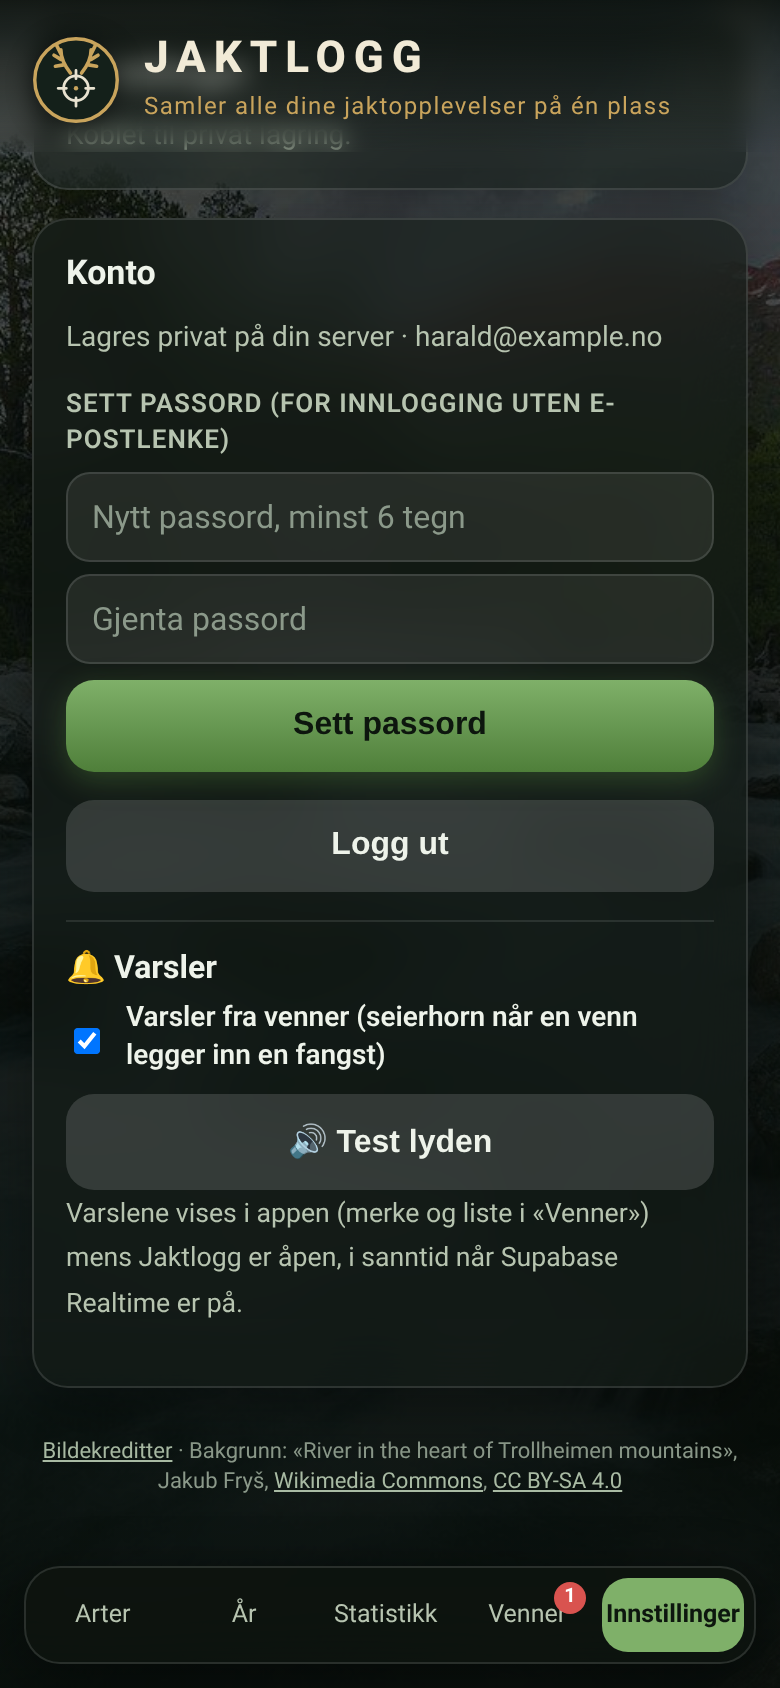
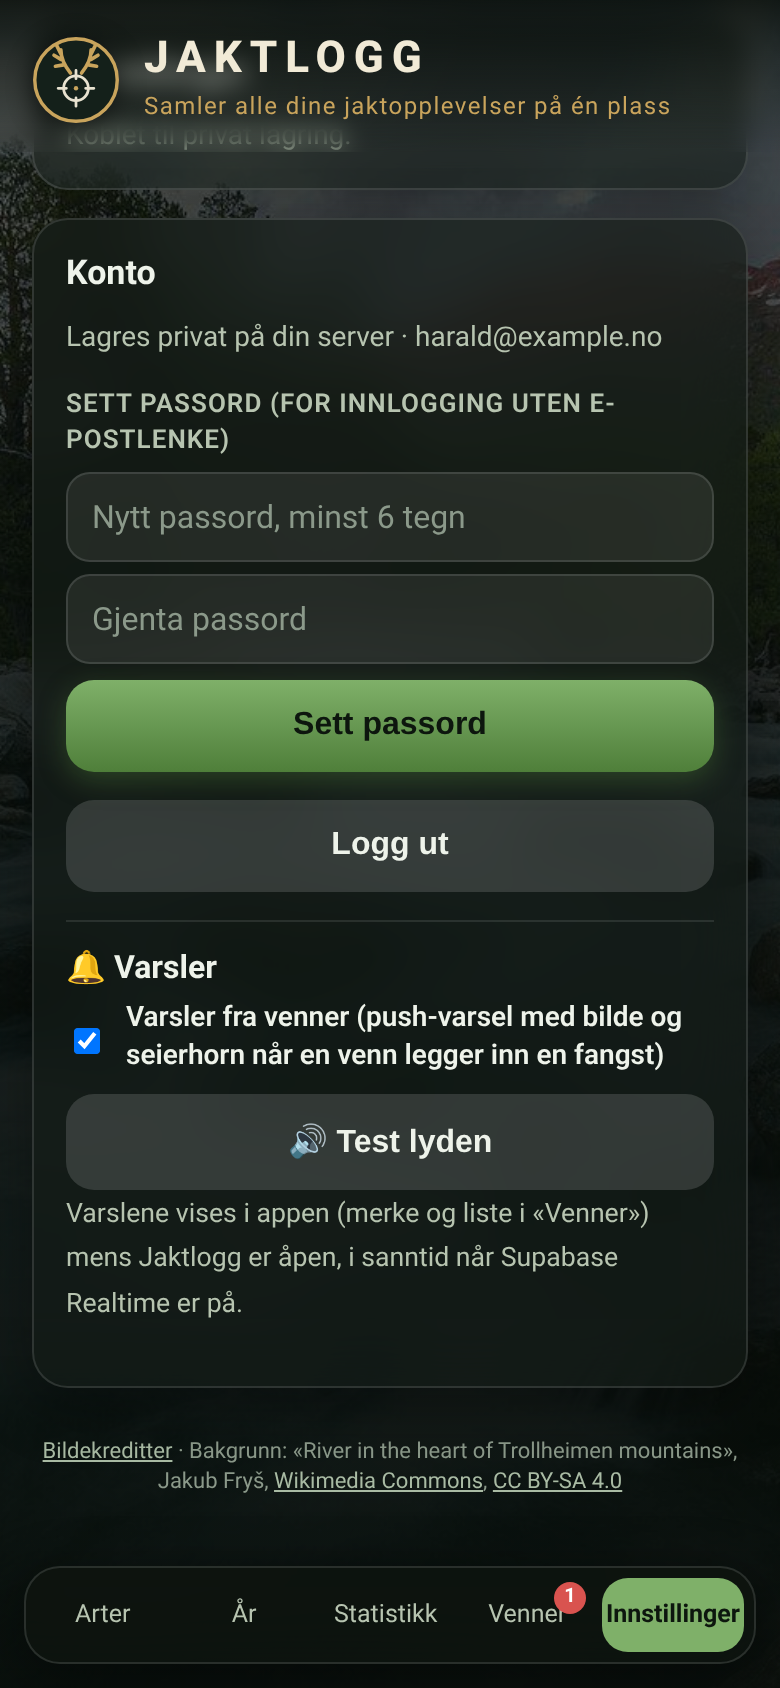
Web push for venner: SW push handler, push_subscriptions + push_recipients, notify-venner edge function (VAPID), README setup

Changed region(s): [[0.1538, 0.5853, 0.8923, 0.6469]]

diff --git a/index.html b/index.html
@@ -340,6 +340,17 @@ async function renderShared(){document.querySelector('nav')&&(document.querySele
 
 // ---- Jaktlag ----
 const myMail=()=>(sbUser&&sbUser.email||'').toLowerCase();
+// Web push (VAPID). Lim inn den OFFENTLIGE VAPID-nøkkelen her (se README → Push-varsler). Privatnøkkelen ligger kun i Supabase secrets.
+const VAPID_PUBLIC='';
+const vapidKey=s=>{const p='='.repeat((4-s.length%4)%4),r=atob((s+p).replace(/-/g,'+').replace(/_/g,'/'));return Uint8Array.from(r,c=>c.charCodeAt(0))};
+async function setPush(on){try{if(!('serviceWorker'in navigator)||!('PushManager'in window))return'Push støttes ikke i denne nettleseren (på iPhone: legg appen til på Hjem-skjermen først).';
+ if(!sb||!sbUser)return'Logg inn for push-varsler.';const reg=await navigator.serviceWorker.ready;let sub=await reg.pushManager.getSubscription();
+ if(!on){if(sub){await sb.from('push_subscriptions').delete().eq('endpoint',sub.endpoint);await sub.unsubscribe()}return'Push-varsler er av.'}
+ if(!VAPID_PUBLIC)return'Push er ikke konfigurert ennå (VAPID-nøkkel mangler). Varsler vises når appen er åpen.';
+ if(await Notification.requestPermission()!=='granted')return'Varsler er blokkert i nettleseren.';
+ if(!sub)sub=await reg.pushManager.subscribe({userVisibleOnly:true,applicationServerKey:vapidKey(VAPID_PUBLIC)});const j=sub.toJSON();
+ const{error}=await sb.from('push_subscriptions').upsert({endpoint:j.endpoint,p256dh:j.keys.p256dh,auth:j.keys.auth},{onConflict:'endpoint'});return error?teamErr(error):'Push-varsler er på for denne enheten.'}catch(e){return'Kunne ikke slå på push: '+(e.message||e)}}
+if('serviceWorker'in navigator)navigator.serviceWorker.addEventListener('message',e=>{if(e.data?.type==='venn-fangst'){if(localStorage.getItem('jaktlogg.varsler')!=='0')shotSound();checkFeed()}else if(e.data?.type==='open-venner')setTab('lag')});
 async function myTeams(){const{data,error}=await sb.from('teams').select('id,name,owner,created_at').order('created_at');if(error)throw error;return data||[]}
 async function myTeams(){const{data,error}=await sb.from('teams').select('id,name,owner,created_at').order('created_at');if(error)throw error;return data||[]}
 const teamErr=e=>/teams|team_|relation|schema|function/i.test(e&&e.message||'')?'Venner er ikke satt opp ennå: kjør supabase/schema.sql på nytt.':errNo(e);
@@ -387,7 +398,7 @@ async function renderSettings(){const n=(await LocalStore.list()).length;
  <label>Anon / publishable key<input id="sk" type="password" autocomplete="off" placeholder="anon-nøkkel"></label>
  <div class="maprow"><button class="btn" id="ss" style="flex:1">Lagre</button>${cfg()?'<button class="btn sec" id="sx">Koble fra</button>':''}</div><p id="smsg" style="font-size:14px;color:var(--m)"></p>`:`<p style="color:var(--m);font-size:14px;margin:0">${cfg()?'Koblet til privat lagring.':'Fangster lagres kun på denne enheten.'}</p>`}</div>
  <div class="panel" style="margin-top:14px"><h2 style="margin-top:0">Konto</h2><p style="color:var(--m);font-size:14px;margin:0 0 10px">${modeText()}</p>
- ${!cfg()?'':sbUser?`<form id="spf" style="margin-bottom:10px"><label>Sett passord (for innlogging uten e-postlenke)<input id="sp1" type="password" minlength="6" required autocomplete="new-password" placeholder="Nytt passord, minst 6 tegn"></label><input id="sp2" type="password" minlength="6" required autocomplete="new-password" placeholder="Gjenta passord" style="margin-top:6px"><button class="btn" style="margin-top:8px">Sett passord</button><p id="spm" style="font-size:14px;color:var(--m)"></p></form><button class="btn sec" id="lo">Logg ut</button><div class="sharebox"><h3 style="margin:0 0 4px;font-size:16px">🔔 Varsler</h3><label class="kopt" style="display:flex;gap:10px;align-items:center;text-transform:none;letter-spacing:0;font-size:14px;color:inherit"><input type="checkbox" id="nvon" style="position:static;opacity:1;width:auto"> Varsler fra venner (seierhorn når en venn legger inn en fangst)</label><button class="btn sec" id="ntest" style="margin-top:8px">🔊 Test lyden</button><small style="color:var(--m)">Varslene vises i appen (merke og liste i «Venner») mens Jaktlogg er åpen, i sanntid når Supabase Realtime er på.</small></div>${n?`<button class="btn" id="mig" style="margin-top:8px">Flytt lokale fangster til server (${n})</button>`:''}<p id="mmsg" style="font-size:14px;color:var(--m)"></p>`:'<button class="btn" id="li">Logg inn</button>'}</div>`;
+ ${!cfg()?'':sbUser?`<form id="spf" style="margin-bottom:10px"><label>Sett passord (for innlogging uten e-postlenke)<input id="sp1" type="password" minlength="6" required autocomplete="new-password" placeholder="Nytt passord, minst 6 tegn"></label><input id="sp2" type="password" minlength="6" required autocomplete="new-password" placeholder="Gjenta passord" style="margin-top:6px"><button class="btn" style="margin-top:8px">Sett passord</button><p id="spm" style="font-size:14px;color:var(--m)"></p></form><button class="btn sec" id="lo">Logg ut</button><div class="sharebox"><h3 style="margin:0 0 4px;font-size:16px">🔔 Varsler</h3><label class="kopt" style="display:flex;gap:10px;align-items:center;text-transform:none;letter-spacing:0;font-size:14px;color:inherit"><input type="checkbox" id="nvon" style="position:static;opacity:1;width:auto"> Varsler fra venner (push-varsel med bilde og seierhorn når en venn legger inn en fangst)</label><small id="npush" style="display:block;color:var(--m)"></small><button class="btn sec" id="ntest" style="margin-top:8px">🔊 Test lyden</button><small style="color:var(--m)">Varslene vises i appen (merke og liste i «Venner») mens Jaktlogg er åpen, i sanntid når Supabase Realtime er på.</small></div>${n?`<button class="btn" id="mig" style="margin-top:8px">Flytt lokale fangster til server (${n})</button>`:''}<p id="mmsg" style="font-size:14px;color:var(--m)"></p>`:'<button class="btn" id="li">Logg inn</button>'}</div>`;
  if($('ss'))$('ss').onclick=async()=>{const url=$('su').value.trim().replace(/\/+$/,'').replace(/\/(rest|auth|storage)\/v1.*$/i,'').replace(/\/+$/,''),key=$('sk').value.trim();
   if(!/^https:\/\/.+/.test(url)||!key){$('smsg').textContent='Fyll inn både URL og nøkkel.';return}
   if(keyRole(key)==='service_role'){$('smsg').textContent='Dette er en service_role/secret-nøkkel. Den skal aldri brukes i appen. Bruk anon-nøkkelen.';return}
@@ -395,7 +406,7 @@ async function renderSettings(){const n=(await LocalStore.list()).length;
  if($('sx'))$('sx').onclick=async()=>{if(sb)await sb.auth.signOut().catch(()=>{});localStorage.removeItem(CFG_KEY);await initBackend();renderSettings();$('hsub').textContent=modeText()};
  if($('li'))$('li').onclick=()=>renderLogin();
  if($('spf'))$('spf').onsubmit=async ev=>{ev.preventDefault();const a=$('sp1').value;if(a.length<6)return $('spm').textContent='Passordet må ha minst 6 tegn.';if(a!==$('sp2').value)return $('spm').textContent='Passordene er ikke like.';$('spm').textContent='Lagrer …';const{error}=await sb.auth.updateUser({password:a});$('spm').textContent=error?errNo(error):'Passordet er satt. Du kan nå logge inn med e-post og passord.';if(!error)$('spf').reset()};
- if(sbUser){if($('nvon')){$('nvon').checked=notifOn();$('ntest').onclick=shotSound;$('nvon').onchange=()=>{localStorage.setItem('jaktlogg.varsler',$('nvon').checked?'1':'0');checkFeed()}}}
+ if(sbUser){if($('nvon')){$('nvon').checked=notifOn();$('ntest').onclick=shotSound;$('nvon').onchange=async()=>{const on=$('nvon').checked;localStorage.setItem('jaktlogg.varsler',on?'1':'0');checkFeed();const m=await setPush(on);if($('npush'))$('npush').textContent=m}}}
  if($('lo'))$('lo').onclick=async()=>{await sb.auth.signOut();sbUser=null;Store=LocalStore;renderSettings();$('hsub').textContent=modeText()};
  if($('mig'))$('mig').onclick=async()=>{if(!confirm(`Flytte ${n} lokale fangster til serveren? De slettes fra enheten når de er lastet opp.`))return;
   const list=await LocalStore.list();let ok=0;for(const e of list){try{$('mmsg').textContent=`Laster opp ${ok+1} av ${list.length} …`;await SupabaseStore.add(e);await LocalStore.delete(e.id);ok++}catch(err){$('mmsg').textContent=`Stoppet etter ${ok}: ${err.message}`;return}}
@@ -471,5 +482,7 @@ function renderRecovery(){RECOVERY=false;IN_RECOVERY=true;if(sb)cleanUrl();tab='
 
 $('t-inn').onclick=()=>setTab('inn');$('cr').onclick=e=>{e.preventDefault();showCredits()};
 (async()=>{if(SHARE)return renderShared();await LocalStore.migrate();const m=await initBackend();$('hsub').textContent=modeText();if(RECOVERY&&m!=='local'||RECOVERY&&!cfg())return renderRecovery();if(HASH_ERR||/access_token|[?&]code=/.test(location.hash+location.search))setTimeout(cleanUrl,0);if(HASH_ERR&&m!=='login'){const t=errNo(HASH_ERR);HASH_ERR=null;setTimeout(()=>alert(t),300)}SETUP?setTab('inn'):m==='login'?(tab='inn',['arter','ar','st','lag','inn'].forEach(x=>$('t-'+x).classList.toggle('on',x==='inn')),renderLogin()):renderArter()})();
-</script><script>if('serviceWorker' in navigator&&(location.protocol==='https:'||location.hostname==='localhost'))addEventListener('load',()=>navigator.serviceWorker.register('sw.js').catch(()=>{}))</script>
+</script><script>if('serviceWorker' in navigator&&(location.protocol==='https:'||location.hostname==='localhost'))addEventListener('load',()=>navigator.serviceWorker.register('sw.js').catch(()=>{}))
+if(location.hash==='#venner')setTimeout(()=>setTab('lag'),700);
+</script>
 </body></html>

diff --git a/supabase/functions/notify-venner/index.ts b/supabase/functions/notify-venner/index.ts
@@ -1,0 +1,40 @@
+// Supabase Edge Function: sender web push til venner når en fangst deles (INSERT på team_entries).
+// Kalles av en Database Webhook. Secrets: VAPID_PUBLIC_KEY, VAPID_PRIVATE_KEY, VAPID_SUBJECT, WEBHOOK_SECRET.
+// SUPABASE_URL og SUPABASE_SERVICE_ROLE_KEY settes automatisk av Supabase på serveren (aldri i appen).
+import { createClient } from 'npm:@supabase/supabase-js@2';
+import webpush from 'npm:web-push@3.6.7';
+
+const db = createClient(Deno.env.get('SUPABASE_URL')!, Deno.env.get('SUPABASE_SERVICE_ROLE_KEY')!);
+webpush.setVapidDetails(Deno.env.get('VAPID_SUBJECT') ?? 'mailto:admin@example.com',
+  Deno.env.get('VAPID_PUBLIC_KEY')!, Deno.env.get('VAPID_PRIVATE_KEY')!);
+
+Deno.serve(async (req) => {
+  if (req.headers.get('x-webhook-secret') !== Deno.env.get('WEBHOOK_SECRET')) return new Response('forbidden', { status: 403 });
+  const { record } = await req.json();                    // team_entries-rad
+  if (!record?.team_id || !record?.entry_id) return new Response('ignored');
+  const { data: e } = await db.from('entries').select('species, animal_class, photos, user_id').eq('id', record.entry_id).single();
+  if (!e) return new Response('no entry');
+  const { data: prof } = await db.from('profiles').select('username').eq('user_id', e.user_id).maybeSingle();
+  // Bare send for delingen i avsenderens egen vennegruppe (unngår duplikater fra vennenes grupper)
+  const { data: t } = await db.from('teams').select('owner, name').eq('id', record.team_id).single();
+  if (!t || t.owner !== e.user_id || t.name !== 'venner') return new Response('skip');
+  const { data: rec } = await db.rpc('push_recipients', { p_team: record.team_id });
+  const ids = (rec ?? []).map((r: any) => r.user_id).filter((id: string) => id !== e.user_id);
+  if (!ids.length) return new Response('no recipients');
+  let image: string | undefined;
+  if (e.photos?.length) {
+    const { data } = await db.storage.from('photos').createSignedUrl(e.photos[0], 60 * 60 * 24 * 7);
+    image = data?.signedUrl;
+  }
+  const payload = JSON.stringify({
+    title: `🎯 @${prof?.username ?? 'en venn'} felte ${e.species}`,
+    body: e.animal_class ? `${e.species} · ${e.animal_class}` : e.species,
+    image, tag: record.entry_id,
+  });
+  const { data: subs } = await db.from('push_subscriptions').select('*').in('user_id', ids);
+  await Promise.all((subs ?? []).map(async (s) => {
+    try { await webpush.sendNotification({ endpoint: s.endpoint, keys: { p256dh: s.p256dh, auth: s.auth } }, payload); }
+    catch (err: any) { if (err?.statusCode === 404 || err?.statusCode === 410) await db.from('push_subscriptions').delete().eq('endpoint', s.endpoint); }
+  }));
+  return new Response(`sent ${subs?.length ?? 0}`);
+});

diff --git a/sw.js b/sw.js
@@ -1,6 +1,6 @@
 // Jaktlogg service worker: enkel app-shell-cache for offline bruk.
 // Supabase-kall (innlogging, data, bilder) og karttiles caches ikke.
-const V = 'jaktlogg-v2';
+const V = 'jaktlogg-v3';
 const SHELL = ['./', './index.html', './manifest.json', './assets/logo.svg', './assets/bg.jpg',
   './assets/icons/icon-192.png', './assets/icons/icon-512.png', './assets/sounds/seierhorn.mp3'];
 const CDN = /^https:\/\/(unpkg\.com\/leaflet@|cdn\.jsdelivr\.net\/npm\/@supabase\/supabase-js@)/;
@@ -27,4 +27,21 @@ self.addEventListener('fetch', e => {
       return hit || net;
     }));
   }
+});
+
+// Web push fra edge-funksjonen notify-venner
+self.addEventListener('push', e => {
+  let d = {}; try { d = e.data ? e.data.json() : {}; } catch (_) {}
+  const title = d.title || 'Ny fangst fra en venn';
+  const opt = { body: d.body || '', icon: './assets/icons/icon-192.png', badge: './assets/icons/icon-192.png',
+    image: d.image || undefined, tag: d.tag || 'venner', renotify: true, vibrate: [80, 40, 160], data: { url: './#venner' } };
+  e.waitUntil(self.registration.showNotification(title, opt).then(() =>
+    self.clients.matchAll({ type: 'window', includeUncontrolled: true }).then(cs => cs.forEach(c => c.postMessage({ type: 'venn-fangst' })))));
+});
+self.addEventListener('notificationclick', e => {
+  e.notification.close();
+  e.waitUntil(self.clients.matchAll({ type: 'window', includeUncontrolled: true }).then(cs => {
+    const c = cs.find(x => 'focus' in x); if (c) { c.postMessage({ type: 'open-venner' }); return c.focus(); }
+    return self.clients.openWindow('./#venner');
+  }));
 });

diff --git a/README.md b/README.md
@@ -140,6 +140,24 @@ Ny fane **Statistikk** i bunnmenyen (mellom «År» og «Innstillinger»), med t
 - Under **Innstillinger → Varsler** finnes bryteren **Varsler fra venner**. Når en venn legger inn en fangst, spilles et seierhorn (`assets/sounds/seierhorn.mp3`) og et merke vises på fanen.
 - Krever at `supabase/schema.sql` kjøres på nytt (tabellen `profiles` og funksjonene `add_friend`, `remove_friend` og `my_friends`). Under panseret brukes jaktlag-tabellene (teams/team_members/team_entries), med én vennegruppe per bruker.
 
+## Push-varsler (web push)
+Når **Varsler fra venner** er på, abonnerer enheten på push. Vennene dine får da et varsel på telefonen med art, type og bilde av fangsten, også når appen er lukket. Er appen åpen, spilles seierhornet. På iPhone virker push bare når appen er lagt til på Hjem-skjermen (iOS 16.4 eller nyere).
+
+Oppsett (én gang):
+1. Kjør `supabase/schema.sql` på nytt. Den legger til `push_subscriptions` og `push_recipients`.
+2. Lag VAPID-nøkler med `npx web-push generate-vapid-keys`.
+3. Lim inn den **offentlige** nøkkelen i `const VAPID_PUBLIC=''` i `index.html`.
+4. Sett secrets i Supabase og deploy funksjonen (`--no-verify-jwt` fordi webhooken bruker sin egen hemmelighet):
+   ```
+   supabase secrets set VAPID_PUBLIC_KEY=... VAPID_PRIVATE_KEY=... VAPID_SUBJECT=mailto:deg@epost.no WEBHOOK_SECRET=<lang tilfeldig streng>
+   supabase functions deploy notify-venner --no-verify-jwt
+   ```
+5. Gå til Supabase Dashboard → Database → Webhooks → *Create*:
+   - Tabell `public.team_entries`, hendelse **Insert**, type *Supabase Edge Functions* → `notify-venner`.
+   - Legg til HTTP-header `x-webhook-secret: <samme WEBHOOK_SECRET>`.
+
+Privatnøkkelen og service-rollen brukes bare inne i edge-funksjonen og havner aldri i appen. Uten VAPID-nøkkel faller appen tilbake til varsler (med seierhorn) når den er åpen.
+
 ## Installer som app (PWA)
 
 `manifest.json` (navn Jaktlogg, start/scope `/jaktapp/`, standalone, ikoner 192/512 i `assets/icons/` laget fra `assets/logo.svg`) og `sw.js` (offline app-skall: siden, logo, bakgrunn, ikoner og Leaflet/supabase-js fra CDN). Supabase-data og karttiles caches ikke – innlogging, synk og kart krever nett.
